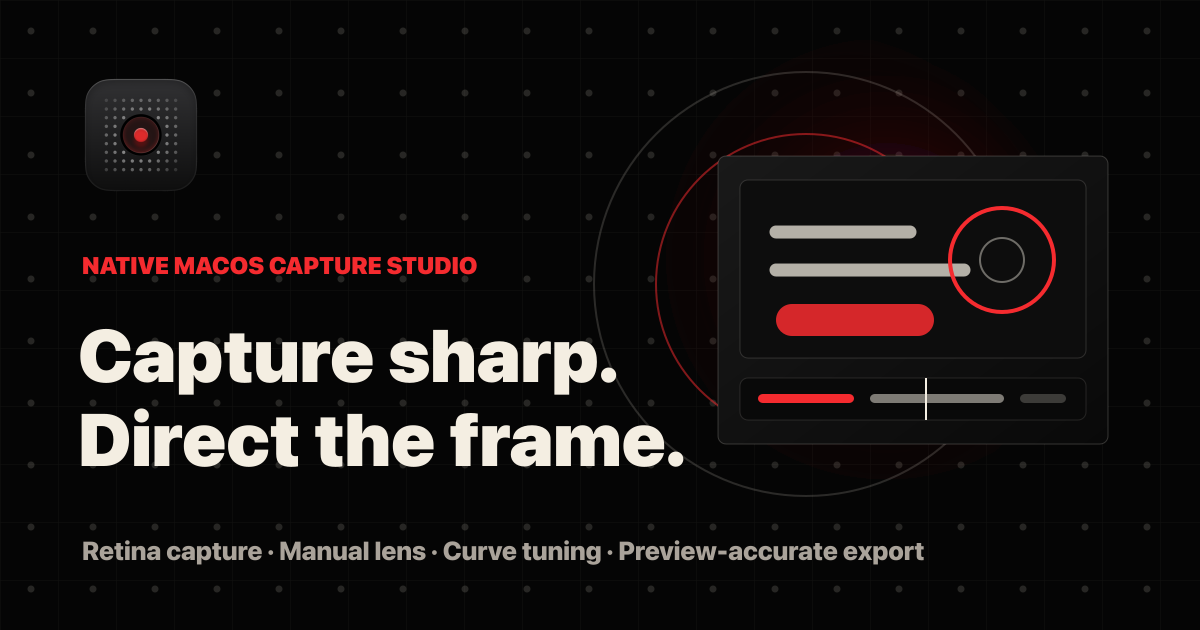
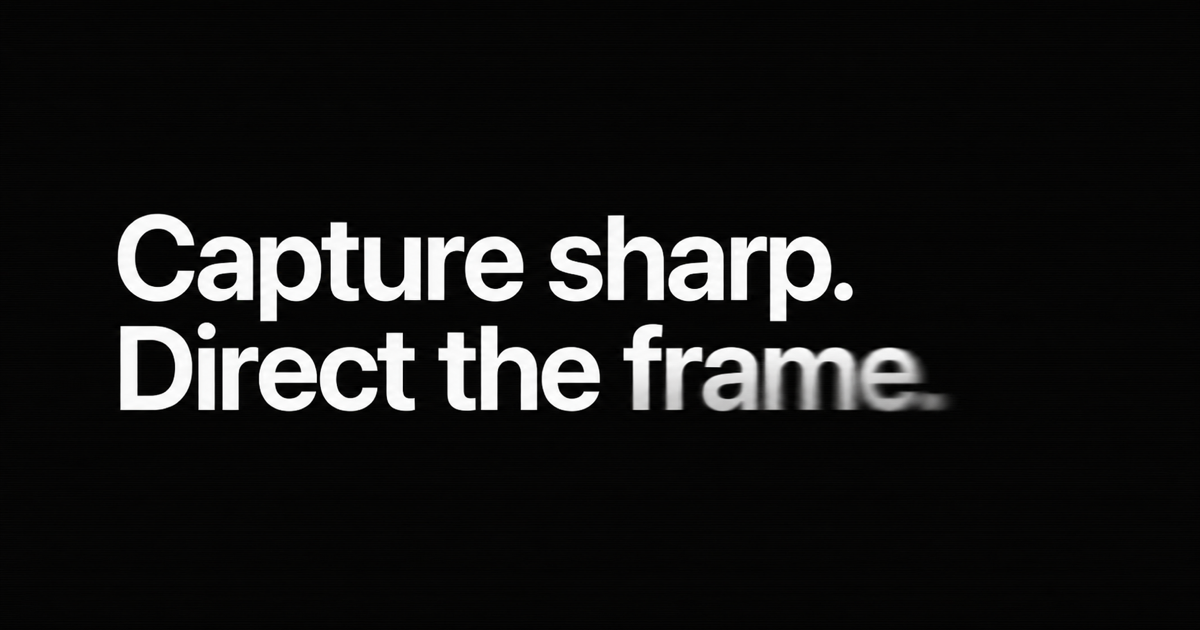
fix(landing): improve mobile demo interactions
Add pointer/touch support to the zoom and controls demos, exaggerate the app size comparison, and replace the OG image asset.

diff --git a/src/components/custom-controls-section.tsx b/src/components/custom-controls-section.tsx
@@ -2,6 +2,7 @@
 
 import { motion, PanInfo, AnimatePresence } from "framer-motion";
 import { useEffect, useRef, useState } from "react";
+import type { PointerEvent as ReactPointerEvent } from "react";
 import { Hand } from "lucide-react";
 import { Slider } from "./slider";
 
@@ -91,7 +92,8 @@ function InteractiveTimeline() {
   const [playheadPosition, setPlayheadPosition] = useState(45);
   const [isDraggingCenter, setIsDraggingCenter] = useState(false);
   const [hasDraggedOnce, setHasDraggedOnce] = useState(false);
-  const lastMousePos = useRef<{ x: number; y: number } | null>(null);
+  const activePreviewPointerRef = useRef<number | null>(null);
+  const lastPointerPos = useRef<{ x: number; y: number } | null>(null);
 
   const handleAnchorDrag = (id: string, info: PanInfo) => {
     if (!timelineRef.current) return;
@@ -105,28 +107,43 @@ function InteractiveTimeline() {
     }));
   };
 
-  const handleTimelineClick = (e: React.MouseEvent) => {
+  const seekTimelineAtClientX = (clientX: number) => {
     if (!timelineRef.current) return;
     const rect = timelineRef.current.getBoundingClientRect();
-    const position = ((e.clientX - rect.left) / rect.width) * 100;
+    const position = ((clientX - rect.left) / rect.width) * 100;
     setPlayheadPosition(Math.max(0, Math.min(100, position)));
   };
 
-  const handlePreviewMouseDown = (e: React.MouseEvent) => {
-    if (!selectedAnchor || !previewRef.current) return;
-    setIsDraggingCenter(true);
-    setHasDraggedOnce(true);
-    lastMousePos.current = { x: e.clientX, y: e.clientY };
+  const handleTimelinePointerDown = (e: ReactPointerEvent<HTMLDivElement>) => {
+    seekTimelineAtClientX(e.clientX);
   };
 
-  const handlePreviewMouseMove = (e: React.MouseEvent) => {
-    if (!isDraggingCenter || !selectedAnchor || !previewRef.current || !lastMousePos.current) return;
+  const handlePreviewPointerDown = (e: ReactPointerEvent<HTMLDivElement>) => {
+    if (!selectedAnchor || !previewRef.current) return;
+    activePreviewPointerRef.current = e.pointerId;
+    e.currentTarget.setPointerCapture(e.pointerId);
+    setIsDraggingCenter(true);
+    setHasDraggedOnce(true);
+    lastPointerPos.current = { x: e.clientX, y: e.clientY };
+    e.preventDefault();
+  };
+
+  const handlePreviewPointerMove = (e: ReactPointerEvent<HTMLDivElement>) => {
+    if (
+      activePreviewPointerRef.current !== e.pointerId ||
+      !isDraggingCenter ||
+      !selectedAnchor ||
+      !previewRef.current ||
+      !lastPointerPos.current
+    ) {
+      return;
+    }
 
     const rect = previewRef.current.getBoundingClientRect();
-    const deltaX = (e.clientX - lastMousePos.current.x) / rect.width * 100;
-    const deltaY = (e.clientY - lastMousePos.current.y) / rect.height * 100;
+    const deltaX = (e.clientX - lastPointerPos.current.x) / rect.width * 100;
+    const deltaY = (e.clientY - lastPointerPos.current.y) / rect.height * 100;
 
-    lastMousePos.current = { x: e.clientX, y: e.clientY };
+    lastPointerPos.current = { x: e.clientX, y: e.clientY };
 
     setAnchors(prev => prev.map(a => {
       if (a.id !== selectedAnchor) return a;
@@ -137,14 +154,26 @@ function InteractiveTimeline() {
     }));
   };
 
-  const handlePreviewMouseUp = () => {
+  const endPreviewDrag = () => {
     setIsDraggingCenter(false);
-    lastMousePos.current = null;
+    activePreviewPointerRef.current = null;
+    lastPointerPos.current = null;
   };
 
-  const handlePreviewMouseLeave = () => {
-    setIsDraggingCenter(false);
-    lastMousePos.current = null;
+  const handlePreviewPointerUp = (e: ReactPointerEvent<HTMLDivElement>) => {
+    if (activePreviewPointerRef.current !== e.pointerId) return;
+    e.currentTarget.releasePointerCapture(e.pointerId);
+    endPreviewDrag();
+  };
+
+  const handlePreviewPointerCancel = (e: ReactPointerEvent<HTMLDivElement>) => {
+    if (activePreviewPointerRef.current !== e.pointerId) return;
+    endPreviewDrag();
+  };
+
+  const handlePreviewPointerLeave = (e: ReactPointerEvent<HTMLDivElement>) => {
+    if (e.pointerType !== "mouse" || activePreviewPointerRef.current !== e.pointerId) return;
+    endPreviewDrag();
   };
 
   const selectedAnchorData = anchors.find(a => a.id === selectedAnchor);
@@ -154,11 +183,12 @@ function InteractiveTimeline() {
       {/* Preview window */}
       <div
         ref={previewRef}
-        className="relative aspect-video rounded-xl bg-card border border-border/50 overflow-hidden select-none"
-        onMouseDown={handlePreviewMouseDown}
-        onMouseMove={handlePreviewMouseMove}
-        onMouseUp={handlePreviewMouseUp}
-        onMouseLeave={handlePreviewMouseLeave}
+        className="relative aspect-video rounded-xl bg-card border border-border/50 overflow-hidden select-none touch-none"
+        onPointerDown={handlePreviewPointerDown}
+        onPointerMove={handlePreviewPointerMove}
+        onPointerUp={handlePreviewPointerUp}
+        onPointerCancel={handlePreviewPointerCancel}
+        onPointerLeave={handlePreviewPointerLeave}
         style={{ cursor: selectedAnchor ? (isDraggingCenter ? 'grabbing' : 'grab') : 'default' }}
       >
         <ZoomPreviewCanvas anchor={selectedAnchorData} />
@@ -195,8 +225,8 @@ function InteractiveTimeline() {
       {/* Timeline */}
       <div
         ref={timelineRef}
-        className="relative h-24 rounded-xl bg-card/50 border border-border/50 cursor-pointer overflow-hidden"
-        onClick={handleTimelineClick}
+        className="relative h-24 rounded-xl bg-card/50 border border-border/50 cursor-pointer overflow-hidden touch-none"
+        onPointerDown={handleTimelinePointerDown}
       >
         {/* Time markers */}
         <div className="absolute top-2 left-0 right-0 flex justify-between px-4 text-[10px] font-mono text-muted-foreground/50">
@@ -215,7 +245,7 @@ function InteractiveTimeline() {
             {anchors.map((anchor) => (
               <motion.div
                 key={anchor.id}
-                className={`absolute top-0 bottom-0 w-1 cursor-ew-resize group ${
+                className={`absolute top-0 bottom-0 w-1 cursor-ew-resize touch-none group ${
                   selectedAnchor === anchor.id ? "z-10" : "z-0"
                 }`}
                 style={{ left: `${((anchor.position - 10) / 80) * 100}%` }}
@@ -223,6 +253,11 @@ function InteractiveTimeline() {
                 dragMomentum={false}
                 dragElastic={0}
                 onDrag={(_, info) => handleAnchorDrag(anchor.id, info)}
+                onPointerDown={(e) => {
+                  e.stopPropagation();
+                  setSelectedAnchor(anchor.id);
+                  setPlayheadPosition(anchor.position);
+                }}
                 onClick={(e) => {
                   e.stopPropagation();
                   setSelectedAnchor(anchor.id);

diff --git a/src/components/zoom-feature-section.tsx b/src/components/zoom-feature-section.tsx
@@ -2,7 +2,7 @@
 
 import { motion } from "framer-motion";
 import { useCallback, useEffect, useRef } from "react";
-import type { MouseEvent as ReactMouseEvent } from "react";
+import type { PointerEvent as ReactPointerEvent } from "react";
 
 export function ZoomFeatureSection() {
   return (
@@ -226,6 +226,7 @@ function CanvasZoomDemo() {
   const playStartRef = useRef<number | null>(null);
   const playTimeRef = useRef(0);
   const previewTimeRef = useRef<number | null>(null);
+  const activeTimelinePointerRef = useRef<number | null>(null);
   const uiElementsRef = useRef<UIElement[]>([]);
 
   const generateUIElements = useCallback((width: number, height: number) => {
@@ -464,24 +465,58 @@ function CanvasZoomDemo() {
     animationRef.current = requestCanvasFrame(render);
   }, [drawCursorWithBlur, drawTransformedFrame, generateUIElements]);
 
-  const handleTimelineMouseMove = useCallback((event: ReactMouseEvent<HTMLDivElement>) => {
+  const previewTimelineAtClientX = useCallback((clientX: number) => {
     if (previewTimeRef.current === null && playStartRef.current !== null) {
       playTimeRef.current = wrapTime(performance.now() - playStartRef.current);
     }
-    previewTimeRef.current = timelineTimeFromClientX(timelineContainerRef.current, event.clientX);
+    previewTimeRef.current = timelineTimeFromClientX(timelineContainerRef.current, clientX);
   }, []);
 
-  const handleTimelineMouseLeave = useCallback(() => {
+  const resumeTimelinePlayback = useCallback(() => {
     previewTimeRef.current = null;
     playStartRef.current = performance.now() - playTimeRef.current;
   }, []);
 
-  const handleTimelineClick = useCallback((event: ReactMouseEvent<HTMLDivElement>) => {
-    const timeMs = timelineTimeFromClientX(timelineContainerRef.current, event.clientX);
+  const seekTimelineToClientX = useCallback((clientX: number) => {
+    const timeMs = timelineTimeFromClientX(timelineContainerRef.current, clientX);
     playStartRef.current = performance.now() - timeMs;
     playTimeRef.current = timeMs;
     previewTimeRef.current = timeMs;
   }, []);
+
+  const handleTimelinePointerMove = useCallback((event: ReactPointerEvent<HTMLDivElement>) => {
+    const activePointerId = activeTimelinePointerRef.current;
+    if (activePointerId !== null && event.pointerId !== activePointerId) return;
+    previewTimelineAtClientX(event.clientX);
+  }, [previewTimelineAtClientX]);
+
+  const handleTimelinePointerLeave = useCallback((event: ReactPointerEvent<HTMLDivElement>) => {
+    if (event.pointerType !== "mouse" || activeTimelinePointerRef.current !== null) return;
+    resumeTimelinePlayback();
+  }, [resumeTimelinePlayback]);
+
+  const handleTimelinePointerDown = useCallback((event: ReactPointerEvent<HTMLDivElement>) => {
+    activeTimelinePointerRef.current = event.pointerId;
+    event.currentTarget.setPointerCapture(event.pointerId);
+    seekTimelineToClientX(event.clientX);
+    event.preventDefault();
+  }, [seekTimelineToClientX]);
+
+  const handleTimelinePointerUp = useCallback((event: ReactPointerEvent<HTMLDivElement>) => {
+    if (activeTimelinePointerRef.current !== event.pointerId) return;
+    event.currentTarget.releasePointerCapture(event.pointerId);
+    activeTimelinePointerRef.current = null;
+
+    if (event.pointerType !== "mouse") {
+      resumeTimelinePlayback();
+    }
+  }, [resumeTimelinePlayback]);
+
+  const handleTimelinePointerCancel = useCallback((event: ReactPointerEvent<HTMLDivElement>) => {
+    if (activeTimelinePointerRef.current !== event.pointerId) return;
+    activeTimelinePointerRef.current = null;
+    resumeTimelinePlayback();
+  }, [resumeTimelinePlayback]);
 
   useEffect(() => {
     playStartRef.current = null;
@@ -514,10 +549,12 @@ function CanvasZoomDemo() {
 
         <div
           ref={timelineContainerRef}
-          className="relative h-[217px] select-none border-t border-white/[0.07] bg-[#101010]/95 [box-shadow:inset_0_1px_0_rgba(255,255,255,0.04)]"
-          onMouseMove={handleTimelineMouseMove}
-          onMouseLeave={handleTimelineMouseLeave}
-          onClick={handleTimelineClick}
+          className="relative h-[217px] cursor-pointer select-none touch-none border-t border-white/[0.07] bg-[#101010]/95 [box-shadow:inset_0_1px_0_rgba(255,255,255,0.04)]"
+          onPointerMove={handleTimelinePointerMove}
+          onPointerLeave={handleTimelinePointerLeave}
+          onPointerDown={handleTimelinePointerDown}
+          onPointerUp={handleTimelinePointerUp}
+          onPointerCancel={handleTimelinePointerCancel}
           aria-label="Timeline preview tracks"
         >
           <canvas

diff --git a/src/components/performance-section.tsx b/src/components/performance-section.tsx
@@ -104,7 +104,7 @@ export function PerformanceSection() {
           <div className="space-y-4">
             <div className="flex items-center justify-between text-sm">
               <span className="text-muted-foreground uppercase tracking-widest text-xs">App Size</span>
-              <span className="text-muted-foreground text-xs">Mac App Store: about 20MB</span>
+              <span className="text-muted-foreground text-xs">about 20MB vs 600MB</span>
             </div>
             <div className="space-y-3">
               <div className="flex items-center gap-4">
@@ -113,7 +113,7 @@ export function PerformanceSection() {
                   <motion.div
                     className="h-full bg-gradient-to-r from-accent to-accent/70 rounded-full"
                     initial={{ width: 0 }}
-                    animate={isInView ? { width: "20%" } : {}}
+                    animate={isInView ? { width: "3.3%" } : {}}
                     transition={{ duration: 1.2, ease: [0.16, 1, 0.3, 1], delay: 0.6 }}
                   />
                 </div>
@@ -124,7 +124,7 @@ export function PerformanceSection() {
                   <motion.div
                     className="h-full bg-muted-foreground/40 rounded-full"
                     initial={{ width: 0 }}
-                    animate={isInView ? { width: "68%" } : {}}
+                    animate={isInView ? { width: "100%" } : {}}
                     transition={{ duration: 1.2, ease: [0.16, 1, 0.3, 1], delay: 0.7 }}
                   />
                 </div>

diff --git a/src/styles/global.css b/src/styles/global.css
@@ -312,6 +312,7 @@
 
   .trace-slider {
     @apply relative h-6 w-full;
+    touch-action: none;
   }
 
   .trace-slider-native {